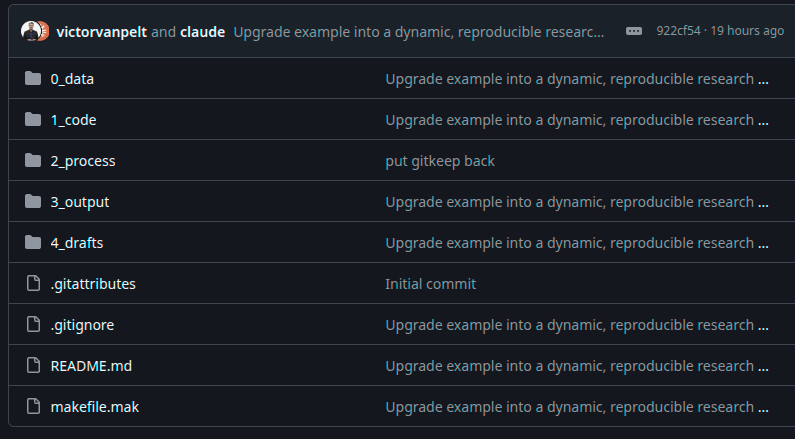
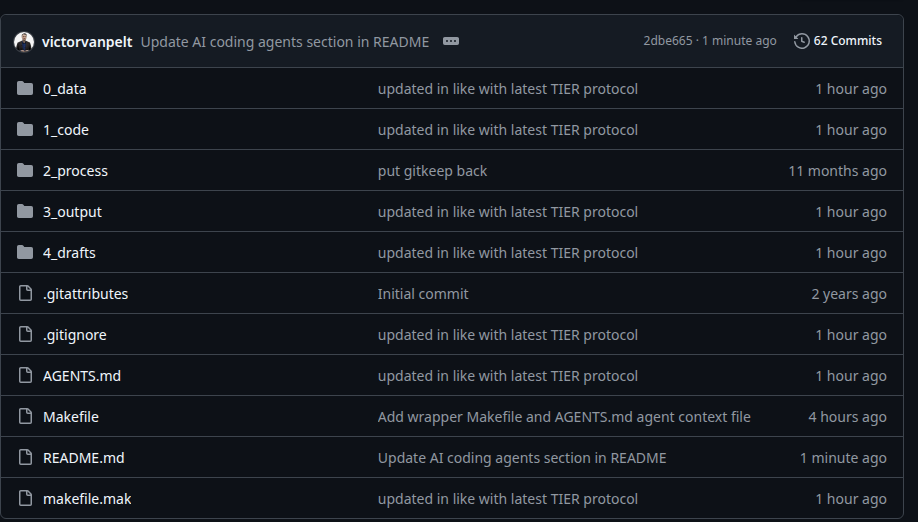
updated slides

diff --git a/presentation.tex b/presentation.tex
@@ -320,6 +320,13 @@
   {\usebeamerfont{footnote}\textcolor{whu_anthracite}{Source: #1}}%
 }
 
+% ── AGENTS.md rule tag at bottom of slide ──────────────────────
+% Usage: \agentrule{Never modify the raw data in 0\_data/. It is read-only.}
+\newcommand{\agentrule}[1]{%
+  \vfill
+  {\usebeamerfont{footnote}\itshape\textcolor{whu_anthracite}{AGENTS.md: ``#1''}}%
+}
+
 % ── Single stat callout ────────────────────────────────────────
 % Usage: \statcallout{42\%}{of firms use AI in forecasting}
 \newcommand{\statcallout}[2]{%
@@ -761,7 +768,14 @@ data and code:
 \item
   Follow a template for a research pipeline
   (\href{https://www.projecttier.org/tier-protocol/protocol-4-0/}{\textbf{TIER
-  Protocol}}).
+  Protocol}}); the example repository follows its concept.
+
+  \begin{itemize}
+  \tightlist
+  \item
+    E.g., a codebook (``\emph{0\_data/codebook.md}'') defines each
+    variable and the data's origin.
+  \end{itemize}
 \end{itemize}
 \end{frame}
 
@@ -786,12 +800,15 @@ data and code:
 Let's take a closer look at how this works in practice (using Stata, R,
 and Quarto):
 
-\includegraphics[width=3.33333in,height=\textheight,keepaspectratio]{images/paste-7.png}
+\includegraphics[width=3.02083in,height=\textheight,keepaspectratio]{images/paste-7.png}
 
 \href{https://github.com/victorvanpelt/research_pipeline_example}{\textbf{Clone
 this repository!}}
 
 \href{https://github.com/victorvanpelt/research_pipeline_example}{\textbf{github.com/victorvanpelt/research\_pipeline\_example}}
+
+The repository also ships a rulebook for AI agents
+(``\emph{AGENTS.md}''): more in chapter 4.
 \end{frame}
 
 \begin{frame}{1. Directory Structure: Stata do-file under ``1\_code/''}
@@ -834,7 +851,8 @@ to rebuild them \begin{center}
 
 You run ``\emph{make}'' in the CLI to rebuild everything, or a single
 step with ``\emph{make r}'', ``\emph{make stata}'', ``\emph{make
-paper}'', or ``\emph{make slides}'' \begin{center}
+appendix}'', ``\emph{make paper}'', or ``\emph{make slides}''
+\begin{center}
 \includegraphics[width=\linewidth,height=1.30208in,keepaspectratio]{images/paste-16.png}
 \end{center}
 \end{frame}
@@ -1211,9 +1229,9 @@ Usage:
   You can produce output in formats, such as .pptx, .docx, .pdf and
   integrate R and Stata code.
 \item
-  The example repository uses Quarto to render a paper and a
-  presentation (``\emph{4\_drafts/}'') that pull their numbers and
-  tables straight from the pipeline.
+  The example repository uses Quarto to render a paper, a presentation,
+  and a data appendix (``\emph{4\_drafts/}'') that pull their numbers
+  and tables straight from the pipeline.
 \item
   It also contains a self-contained literate report
   (``\emph{1\_code/code.qmd}'').
@@ -1264,8 +1282,8 @@ Example}
 \phantomsection\label{integrating-multiple-languages-makefile.mak-extension}
 \centering
 
-``\emph{make paper}'' and ``\emph{make slides}'' render the Quarto
-drafts from the pipeline's output
+``\emph{make appendix}'', ``\emph{make paper}'', and ``\emph{make
+slides}'' render the Quarto drafts from the pipeline's output
 
 \begin{center}
 \includegraphics[width=\linewidth,height=2.23958in,keepaspectratio]{images/paste-13.png}
@@ -1386,7 +1404,7 @@ choice it made is visible.}
 
 \bigbreak
 
-\highlightbox{Code the agent wrote yesterday still runs in ten years. The model that probablistically wrote it will not.}
+\highlightbox{Code the agent wrote yesterday still runs in ten years. The model that probabilistically wrote it will not.}
 \end{frame}
 
 \begin{frame}{4. AI agents: What you ask for, what you never accept}
@@ -1429,6 +1447,8 @@ choice it made is visible.}
 \end{column}
 \end{columns}
 
+\agentrule{Never modify the raw data in 0\_data/. It is read-only. The exception is 0\_data/codebook.md, which is hand-maintained documentation: update it whenever the data change.}
+
 \note{Everything on the left ends as code in the repo, which means
 everything on the left is checkable. The merge is the running example:
 the agent writes 1\_code/merge.r, and we can even ask it to add its own
@@ -1440,22 +1460,23 @@ not enter the project. Citations sit there too, because models invent
 plausible references with real journal names.}
 \end{frame}
 
-\begin{frame}{4. AI agents: Set the rules before it starts}
-\phantomsection\label{ai-agents-set-the-rules-before-it-starts}
+\begin{frame}{4. AI agents: AGENTS.md, the rulebook of your repo}
+\phantomsection\label{ai-agents-agents.md-the-rulebook-of-your-repo}
 \begin{columns}[T]
 \begin{column}{0.52\linewidth}
 \begin{itemize}
 \tightlist
 \item
-  \textbf{Numbered folders} scope what the agent may touch
+  One file in the repo root states the rules for any agent
 \item
-  ``\emph{0\_data}'' stays read-only: the one hard rule
+  Scope: help in ``\emph{1\_code}'' and ``\emph{4\_drafts}'' only
 \item
-  \textbf{git} turns every agent edit into a reviewable diff
+  ``\emph{0\_data}'' stays read-only; ``\emph{2\_process}'' and
+  ``\emph{3\_output}'' are rebuilt, never hand-edited
 \item
-  \textbf{make} verifies every number with one command
+  It may run \emph{make}; it may never commit or push
 \item
-  \textbf{README + AGENTS.md} are the agent's onboarding memo
+  The rules from chapters 1-3, written down for the agent
 \end{itemize}
 \end{column}
 
@@ -1466,19 +1487,21 @@ plausible references with real journal names.}
 
 \highlightbox{Your pipeline does not need to trust the agent, only to verify what it changed.}
 
-\note{The same structure from chapters one through three is what makes
-agents safe to use. Numbered folders already scope what belongs where,
-so an agent editing 1\_code has no business touching 3\_output by hand.
-0\_data stays read-only for the agent exactly as it does for us, real
-data is never regenerated or overwritten. Because everything lives in
-git, any change the agent makes shows up as a diff we can read before
-committing it. make is the contract: if the pipeline runs clean from raw
-data to draft, the result is verified, not just plausible. The file on
-the right is real and ships with the example repository. AGENTS.md is a
-README for agents, a convention most coding agents read, and Claude Code
-reads a CLAUDE.md. It gives the agent the same onboarding a new
-collaborator would need. None of this requires trusting the agent's
-judgment, it requires trusting the guardrails we already built.}
+\note{This file ships with the example repository, and it already
+appeared in the chapter one screenshot. AGENTS.md is a README for agents
+and agentic systems, a convention most of these tools read: Claude Code,
+OpenAI Codex, Hermes, Cursor. Claude Code also reads a CLAUDE.md. The
+bullets on the left are the file's actual rules. It helps in 1\_code and
+4\_drafts only. Raw data stays read-only, with one exception: the
+codebook is hand-maintained documentation, and the agent must keep it in
+sync with the data. Intermediates and outputs are rebuilt by the
+pipeline, never edited by hand. The three engines must stay in sync, so
+a change to code.r lands in code.do and code.qmd too; only the appendix
+block is exempt, because the Quarto report skips it. Credentials never
+enter the repo, the same environment-variable rule from chapter one. The
+Build section hands the agent the make targets, so it can check its own
+work. And the last rule bans git commit and git push: the agent leaves
+the diff for us. The next three slides are these rules in action.}
 \end{frame}
 
 \begin{frame}{4. AI agents: The agent edits code, you review the diff}
@@ -1505,6 +1528,8 @@ judgment, it requires trusting the guardrails we already built.}
 \pandocbounded{\includegraphics[keepaspectratio]{images/paste-20.png}}
 \end{column}
 \end{columns}
+
+\agentrule{Help the user make changes in 1\_code/ (analysis) or 4\_drafts/ (paper, slides, and data appendix sources) only.}
 
 \note{Say we ask an agent to add a robustness check: winsorize scaled
 earnings at the first and ninety-ninth percentile before the main
@@ -1542,6 +1567,8 @@ back with exactly what's wrong, the same way we'd redirect a coauthor.}
 \pandocbounded{\includegraphics[keepaspectratio]{images/paste-22.png}}
 \end{column}
 \end{columns}
+
+\agentrule{A change is done only when make clean followed by make completes without errors and every number in the 4\_drafts/ outputs comes from the rerun pipeline, not from hand edits.}
 
 \note{Suppose make fails after the agent's edit, maybe a data type
 mismatch in the new winsorizing step. A good agent reads that error
@@ -1583,6 +1610,8 @@ run is the one test that cannot be flattered.}
 \end{column}
 \end{columns}
 
+\agentrule{Never run git commit or git push. Leave changes in the working tree for the maintainer to review and commit.}
+
 \note{A diff shows what is changing right now. The commit history shows
 what changed ever. Keep commits small, one change each, and write
 messages that say why. When a supervisor asks in March what the agent
@@ -1610,6 +1639,8 @@ not as I did.}
   Review every diff before committing
 \item
   Rerun the pipeline before trusting a number
+\item
+  Set the rules once, in ``\emph{AGENTS.md}''
 \end{itemize}
 \end{column}
 